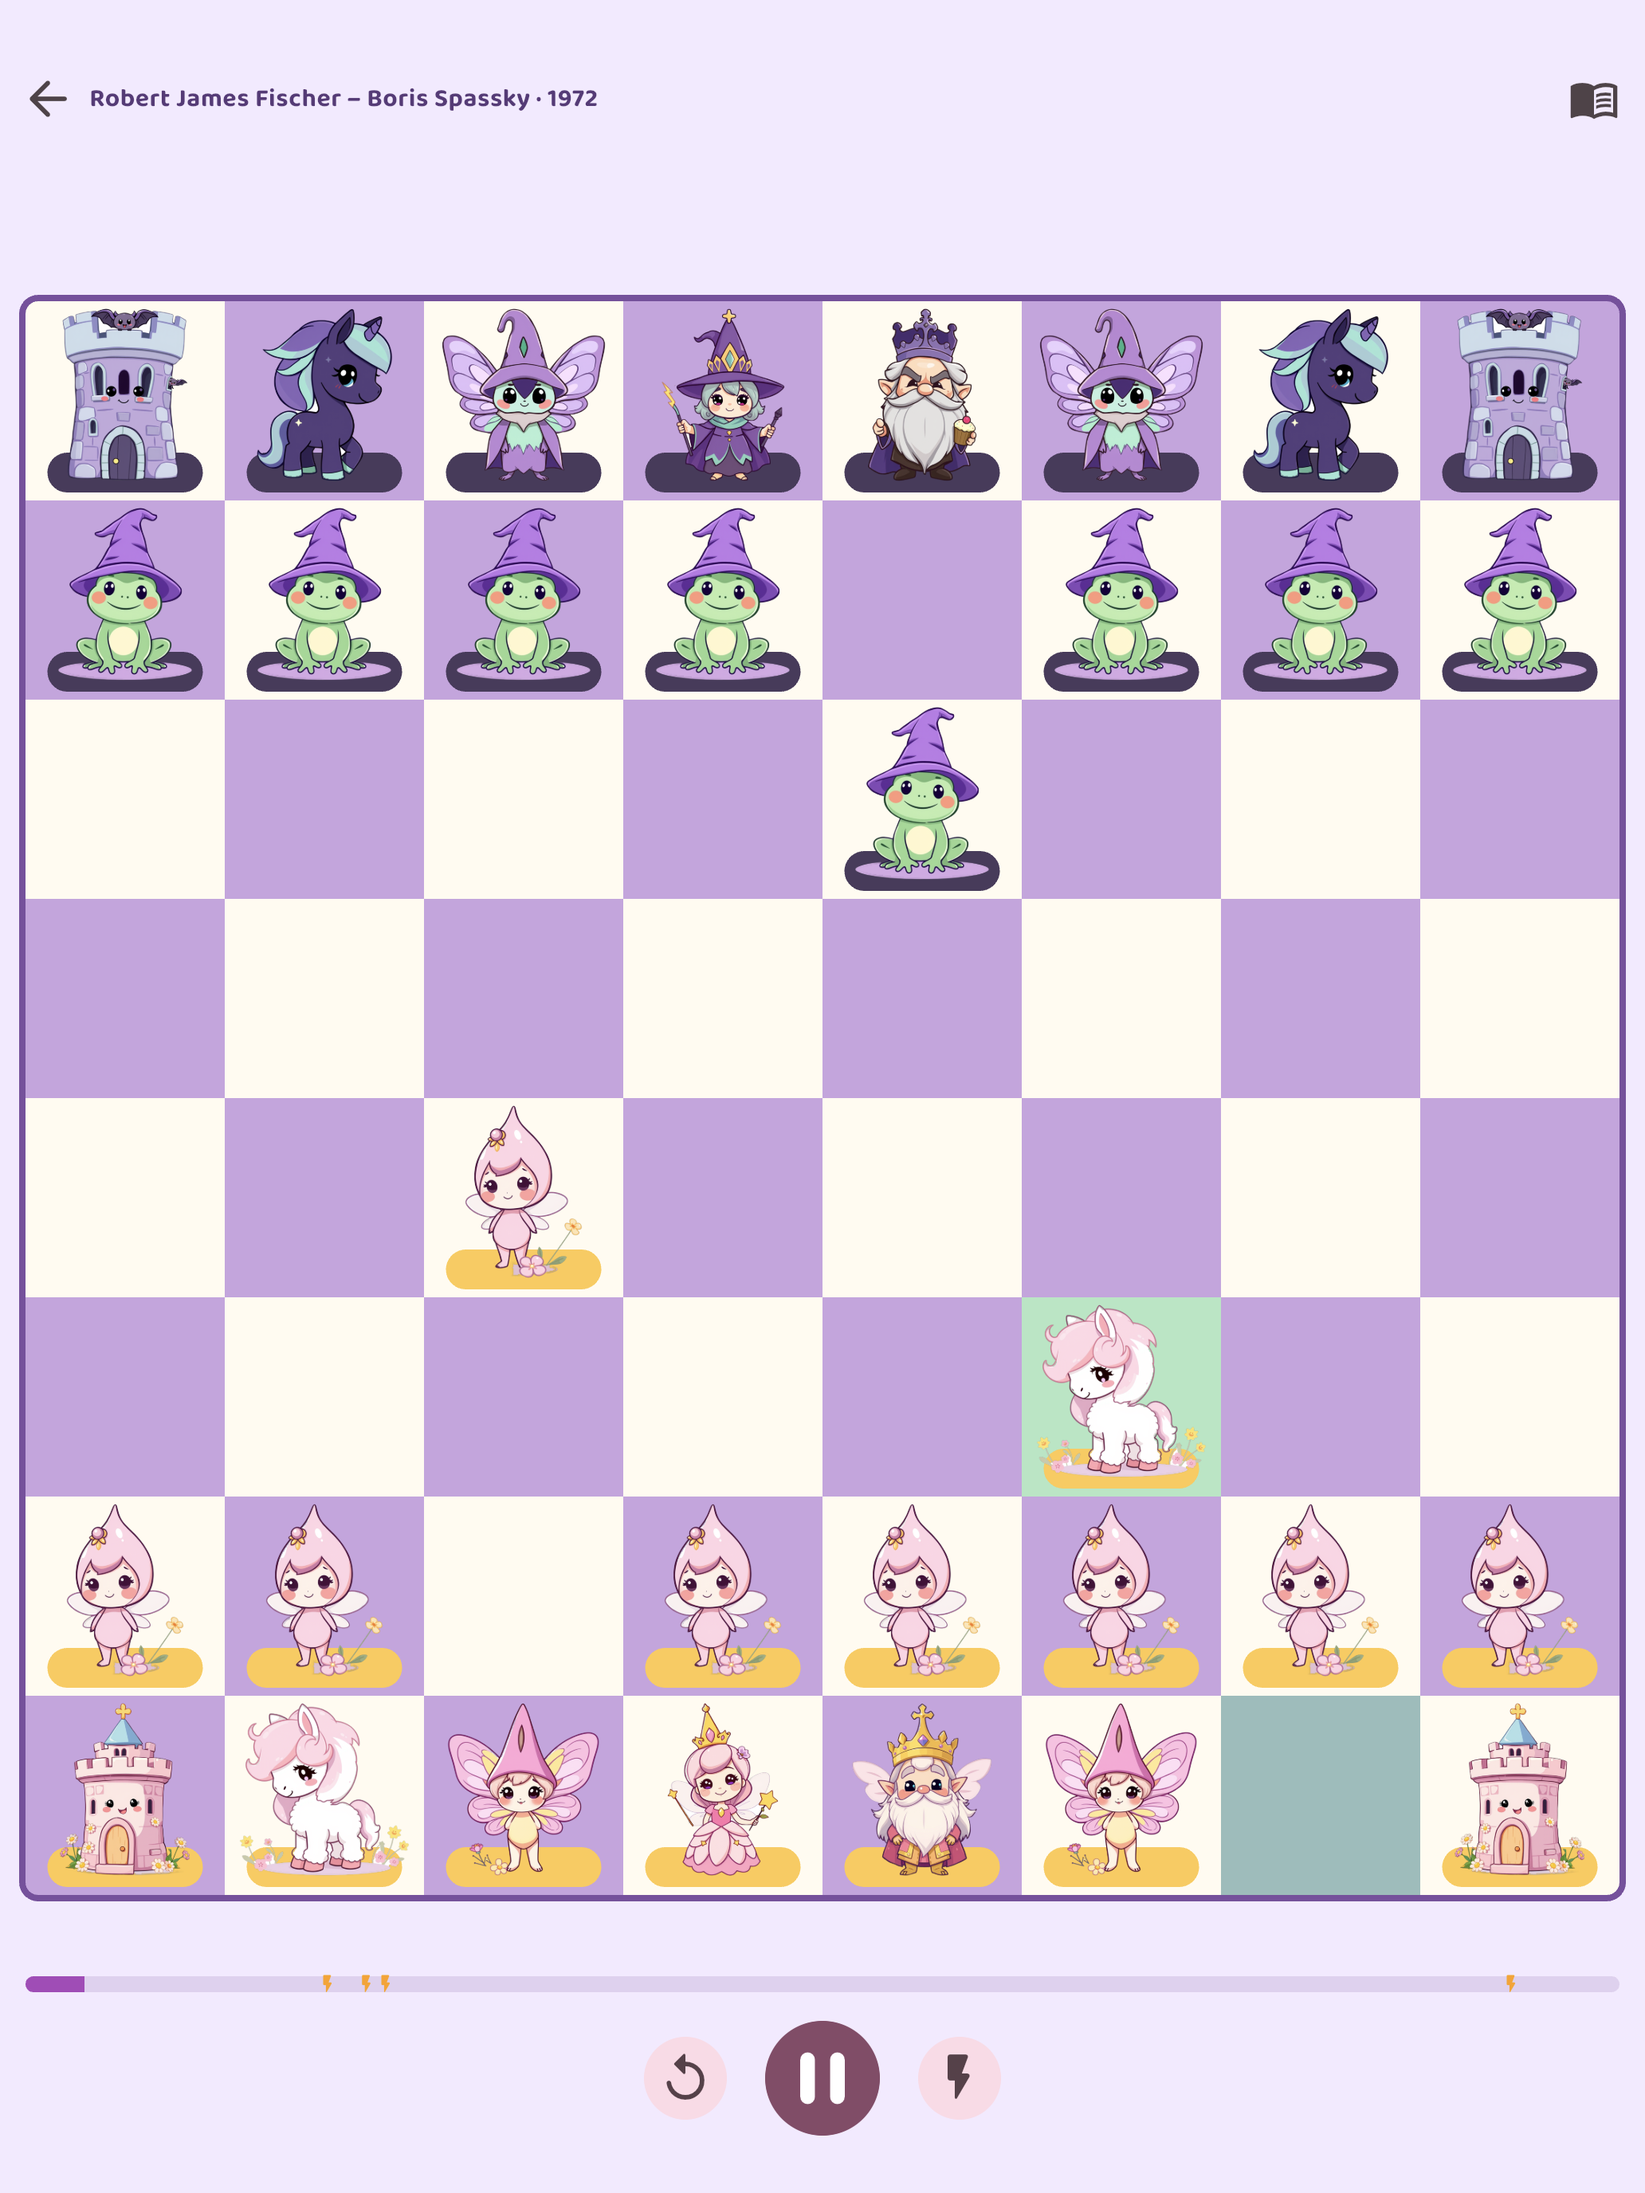
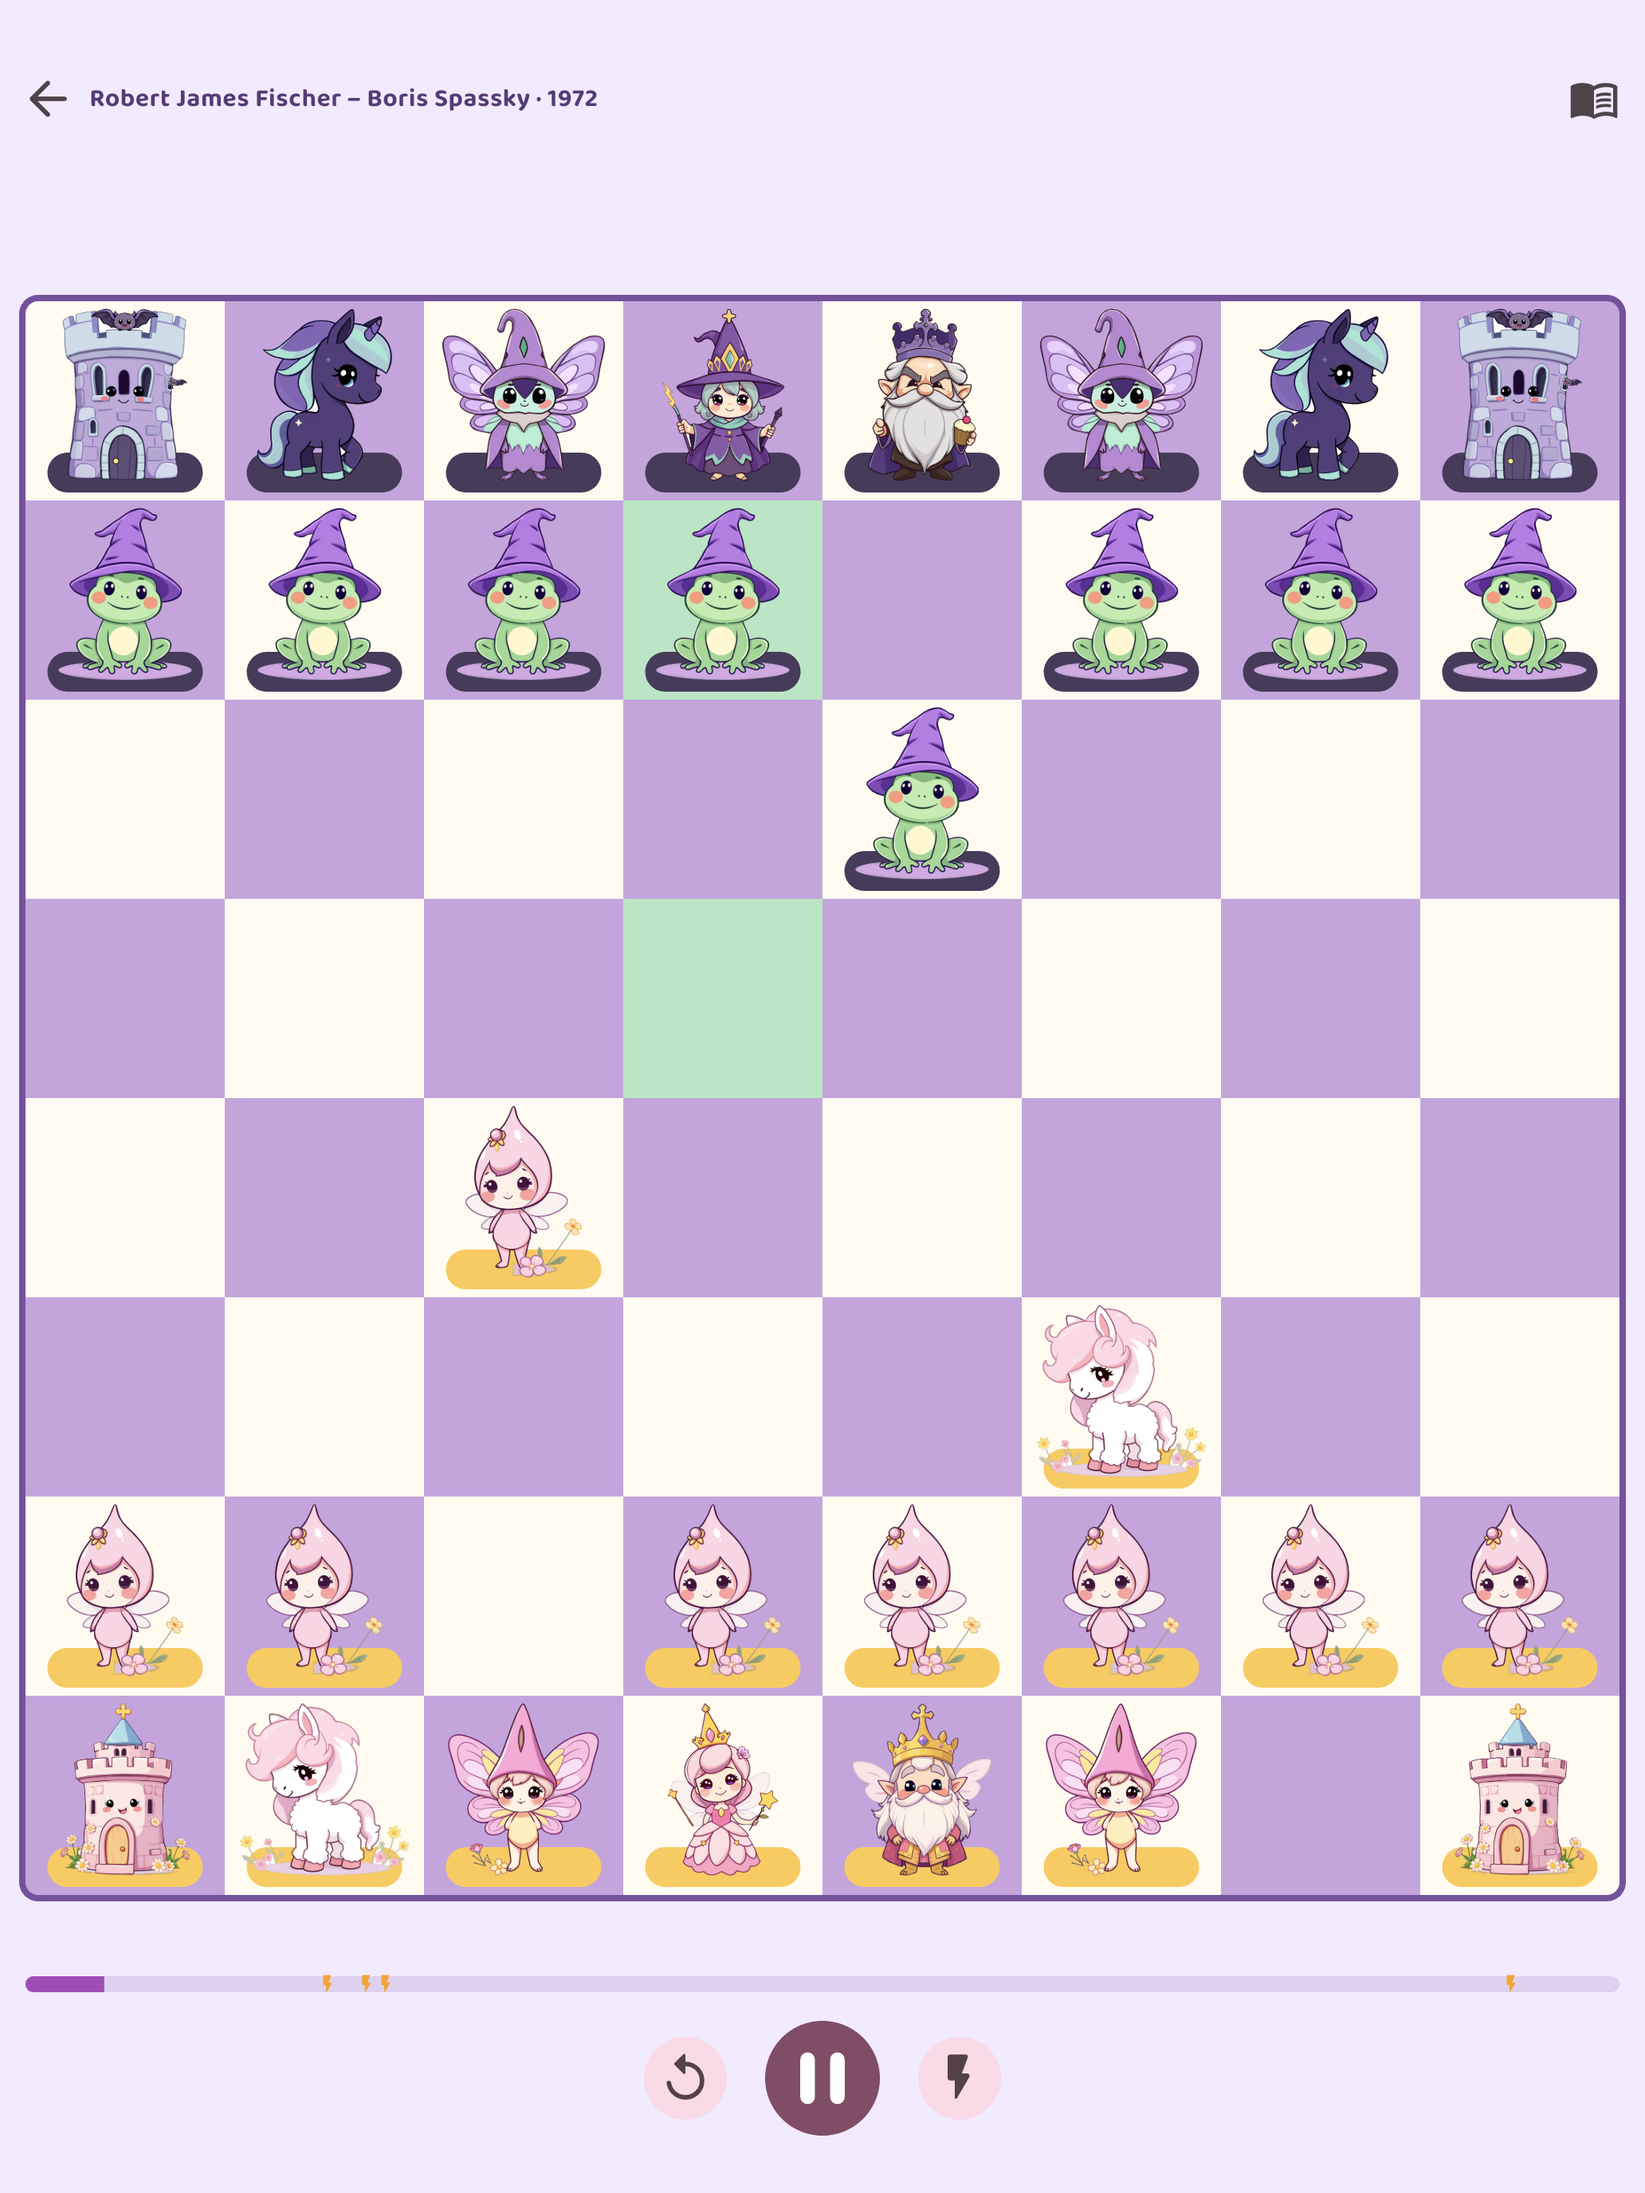
store: live scene from today's game, texts for the live mode
Scene 10 shows game 1 of the 2026 match after 23... Nxe5 in live mode
(clocks, time trouble, adviser lines from the source's cloud evaluation).
Descriptions and release notes describe the live mode and settings.

Claude-Session: https://claude.ai/code/session_01RgN3TZw9Y7ukkLpZH72qnA

diff --git a/integration_test/store_screenshots_test.dart b/integration_test/store_screenshots_test.dart
@@ -1,11 +1,13 @@
 // Store screenshots (App Store, Google Play): map, story, lesson, battle,
-// armies, hall of fame, golden board, champion and challenger, replay.
+// armies, hall of fame, golden board, champion and challenger, replay, live.
 // Run by tool/store_screenshots.sh (flutter drive on a simulator); the PNGs
 // are written by test_driver/screenshot_driver.dart into SCREENSHOT_DIR.
 //
 // Languages: --dart-define=SCREENSHOT_LOCALES=cs,en (default cs,en).
 // Built without FEED_BASE_URL, so the hall shows no live shelf and the app
-// never touches the network.
+// never touches the network: the live scene reads game 1 of the 2026 match
+// (24. 11. 2026) from [_TodayFeed], as the relay served it, stopped after
+// 23... Nxe5 with the adviser lines the source gave for that position.
 
 import 'dart:convert';
 import 'dart:io';
@@ -18,6 +20,9 @@ import 'package:shared_preferences/shared_preferences.dart';
 
 import 'package:princesschess/app/app.dart';
 import 'package:princesschess/app/content_lang.dart';
+import 'package:princesschess/core/games/pgn.dart';
+import 'package:princesschess/core/net/feed_client.dart';
+import 'package:princesschess/features/games/live_providers.dart';
 
 const _locales = String.fromEnvironment('SCREENSHOT_LOCALES', defaultValue: 'cs,en');
 
@@ -43,6 +48,96 @@ const _progress = {
 /// Fischer – Spassky, 1972, game 6 (golden board).
 const _replayGame = 'ab8e4e410001';
 
+/// Plies of today's game shown live: 23... Nxe5, Black in time trouble.
+const _livePlies = 46;
+
+/// Relay output for game 1 (feed/test/fixtures/wch2026_r1_feed.pgn).
+const _todayPgn = r'''
+[Event "World Championship Match 2026, Geneva"]
+[Date "2026.11.11"]
+[Round "1.1"]
+[White "Sindarov, Javokhir"]
+[Black "Gukesh D"]
+[Result "1/2-1/2"]
+[ECO "C67"]
+[WhiteElo "2782"]
+[BlackElo "2710"]
+[TimeControl "40/7200:1800+30"]
+
+1. e4 {[%eval 0.18][%clk 1:59:50]} e5 {[%eval 0.22][%clk 1:59:52]} 2. Nf3
+{[%eval 0.18][%clk 1:59:37]} Nc6 {[%eval 0.22][%clk 1:59:45]} 3. Bb5
+{[%eval 0.15][%clk 1:59:20]} Nf6 {[%eval 0.17][%clk 1:59:36]} 4. O-O
+{[%eval 0.11][%clk 1:58:09]} Nxe4 {[%eval 0.14][%clk 1:59:29]} 5. d4
+{[%eval 0.14][%clk 1:57:56]} Nd6 {[%eval 0.16][%clk 1:59:20]} 6. Bxc6
+{[%eval 0.07][%clk 1:57:44]} dxc6 {[%eval 0.17][%clk 1:59:12]} 7. dxe5
+{[%eval 0.05][%clk 1:57:38]} Nf5 {[%eval 0.17][%clk 1:59:07]} 8. Qxd8+
+{[%eval 0.09][%clk 1:57:29]} Kxd8 {[%eval 0.17][%clk 1:59:02]} 9. Rd1+
+{[%eval 0.07][%clk 1:57:22]} Ke8 {[%eval 0.15][%clk 1:57:37]} 10. Nc3
+{[%eval 0.15][%clk 1:57:14]} Ne7 {[%eval 0.19][%clk 1:54:15]} 11. h3
+{[%eval 0.11][%clk 1:56:59]} Ng6 {[%eval 0.12][%clk 1:47:17]} 12. Be3
+{[%eval 0.04][%clk 1:56:37]} Be7 {[%eval 0.1][%clk 1:34:45]} 13. Ne4
+{[%eval 0.15][%clk 1:54:43]} Bd7 {[%eval 0.06][%clk 1:19:13]} 14. c4
+{[%eval -0.04][%clk 1:31:51]} a5 {[%eval 0.06][%clk 1:16:37]} 15. Rd2
+{[%eval 0.12][%clk 1:23:12]} a4 {[%eval 0.34][%clk 1:07:23]} 16. Rad1
+{[%eval 0.29][%clk 1:19:14]} Be6 {[%eval 0.3][%clk 1:04:54]} 17. b3
+{[%eval 0.39][%clk 1:18:08]} Bb4 {[%eval 0.36][%clk 0:28:40]} 18. Re2
+{[%eval 0.23][%clk 1:15:48]} h6 {[%eval 0.36][%clk 0:23:30]} 19. Ng3
+{[%eval 0.26][%clk 0:57:11]} c5 {[%eval 0.28][%clk 0:16:29]} 20. Nh5
+{[%eval 0.29][%clk 0:55:56]} Rg8 {[%eval 0.3][%clk 0:16:18]} 21. g4
+{[%eval 0.0][%clk 0:47:20]} Ke7 {[%eval 0.12][%clk 0:15:51]} 22. Ne1
+{[%eval 0.0][%clk 0:27:41]} axb3 {[%eval 0.09][%clk 0:15:46]} 23. axb3
+{[%eval 0.07][%clk 0:27:22]} Nxe5 {[%eval 0.1][%clk 0:11:06]} 24. f4
+{[%eval -0.02][%clk 0:27:10]} g6 {[%eval -0.02][%clk 0:10:22]} 25. Ng3
+{[%eval 0.0][%clk 0:27:00]} Nc6 {[%eval 0.0][%clk 0:09:26]} 26. f5
+{[%eval 0.0][%clk 0:25:48]} gxf5 {[%eval 0.0][%clk 0:09:20]} 27. Nxf5+
+{[%eval 0.0][%clk 0:25:31]} Kf6 {[%eval 0.0][%clk 0:08:39]} 28. Rf2
+{[%eval 0.0][%clk 0:20:12]} Rgd8 {[%eval 0.0][%clk 0:08:16]} 29. Nd3
+{[%eval 0.0][%clk 0:19:17]} Bxf5 {[%eval 0.0][%clk 0:07:13]} 30. Rxf5+
+{[%eval 0.0][%clk 0:19:02]} Kg7 {[%eval 0.0][%clk 0:07:09]} 31. Rh5
+{[%eval 0.0][%clk 0:18:53]} Bc3 {[%eval 0.0][%clk 0:05:42]} 32. Bxh6+
+{[%eval 0.0][%clk 0:17:20]} Kg8 {[%eval 0.0][%clk 0:05:30]} 33. Rg5+
+{[%eval 0.0][%clk 0:16:54]} Kh7 {[%eval 0.0][%clk 0:05:24]} 34. Rh5
+{[%eval 0.0][%clk 0:16:51]} Kg8 {[%eval 0.0][%clk 0:04:49]} 35. Rg5+
+{[%eval 0.0][%clk 0:16:22]} Kh7 {[%eval 0.0][%clk 0:04:44]} 36. Rh5
+{[%eval 0.0][%clk 0:16:16]} Kg8 {[%eval 0.0][%clk 0:04:40]} 37. Rg5+
+{[%eval 0.0][%clk 0:16:03]} Kh7 {[%eval 0.0][%clk 0:06:38]} 38. Rh5
+{[%eval 0.0][%clk 0:15:51]} Kg8 {[%eval 0.0][%clk 0:06:32]} 1/2-1/2
+''';
+
+/// Today's game as a running round, cut after [_livePlies].
+class _TodayFeed extends FeedClient {
+  _TodayFeed() : super(baseUrl: 'http://feed.invalid');
+
+  @override
+  Future<FeedFetch> roundIfChanged(String tournamentId, String roundId, {String? etag}) async {
+    final g = parsePgn(_todayPgn).single;
+    final b = StringBuffer();
+    for (final e in g.headers.entries) {
+      b.writeln('[${e.key} "${e.key == 'Result' ? '*' : e.value}"]');
+    }
+    // The move came 1 min 40 s ago.
+    b.writeln('[LastMoveAt "${DateTime.now().millisecondsSinceEpoch ~/ 1000 - 100}"]');
+    b.writeln();
+    for (var i = 0; i < _livePlies; i++) {
+      if (i.isEven) b.write('${i ~/ 2 + 1}. ');
+      b.write('${g.sans[i]} {[%clk ${formatClock(g.clocks[i]!)}][%eval ${g.evals[i]}]} ');
+    }
+    b.writeln('*');
+    return FeedFetch(body: b.toString(), etag: 'today', serverTime: DateTime.now());
+  }
+
+  /// Lichess cloud evaluation of the position after 23... Nxe5 (depth 32).
+  @override
+  Future<Advice> advice(String fen) async => const Advice(
+    depth: 32,
+    lines: [
+      AdviceLine(moves: ['e1c2', 'a8d8', 'd1d8', 'e7d8', 'c2b4', 'c5b4', 'f2f4', 'e5c6', 'f4f5', 'e6d7'], cp: 3),
+      AdviceLine(moves: ['e3f4', 'e5c6', 'e1d3', 'a8d8', 'f4c7', 'd8d7', 'c7b6', 'c6d4', 'e2e3', 'd4b3'], cp: 0),
+      AdviceLine(moves: ['f2f4', 'g7g6', 'h5g3', 'e5c6', 'e1d3', 'a8d8', 'f4f5', 'g6f5', 'g3f5', 'e7f6'], cp: -8),
+    ],
+  );
+}
+
 void main() {
   final binding = IntegrationTestWidgetsFlutterBinding.ensureInitialized();
   // Battles run on Flame's own loop: keep frames flowing, not only on pump.
@@ -57,7 +152,12 @@ void main() {
     SharedPreferences.setMockInitialValues({'progress_v1': jsonEncode(_progress)});
     for (final code in _locales.split(',')) {
       router.go('/');
-      await tester.pumpWidget(ProviderScope(child: PrincessChessApp(key: ValueKey(code), locale: Locale(code))));
+      await tester.pumpWidget(
+        ProviderScope(
+          overrides: [feedClientProvider.overrideWithValue(_TodayFeed())],
+          child: PrincessChessApp(key: ValueKey(code), locale: Locale(code)),
+        ),
+      );
 
       Future<void> shot(int n, String scene, {double settle = 1.5}) async {
         await _wait(tester, settle);
@@ -106,6 +206,16 @@ void main() {
         await _wait(tester, .4);
       }
       await shot(9, 'replay', settle: 2);
+
+      router.go('/');
+      await _wait(tester, 1);
+      router.push('/live/wch2026/xLgOJ6cb/0');
+      await _wait(tester, 1.5);
+      final skip = find.byIcon(Icons.fast_forward_rounded);
+      if (skip.evaluate().isNotEmpty) await tester.tap(skip.first);
+      await _wait(tester, 1);
+      await tester.tap(find.byIcon(Icons.lightbulb_rounded).first);
+      await shot(10, 'live', settle: 2);
 
       router.go('/');
       await _wait(tester, 1);
